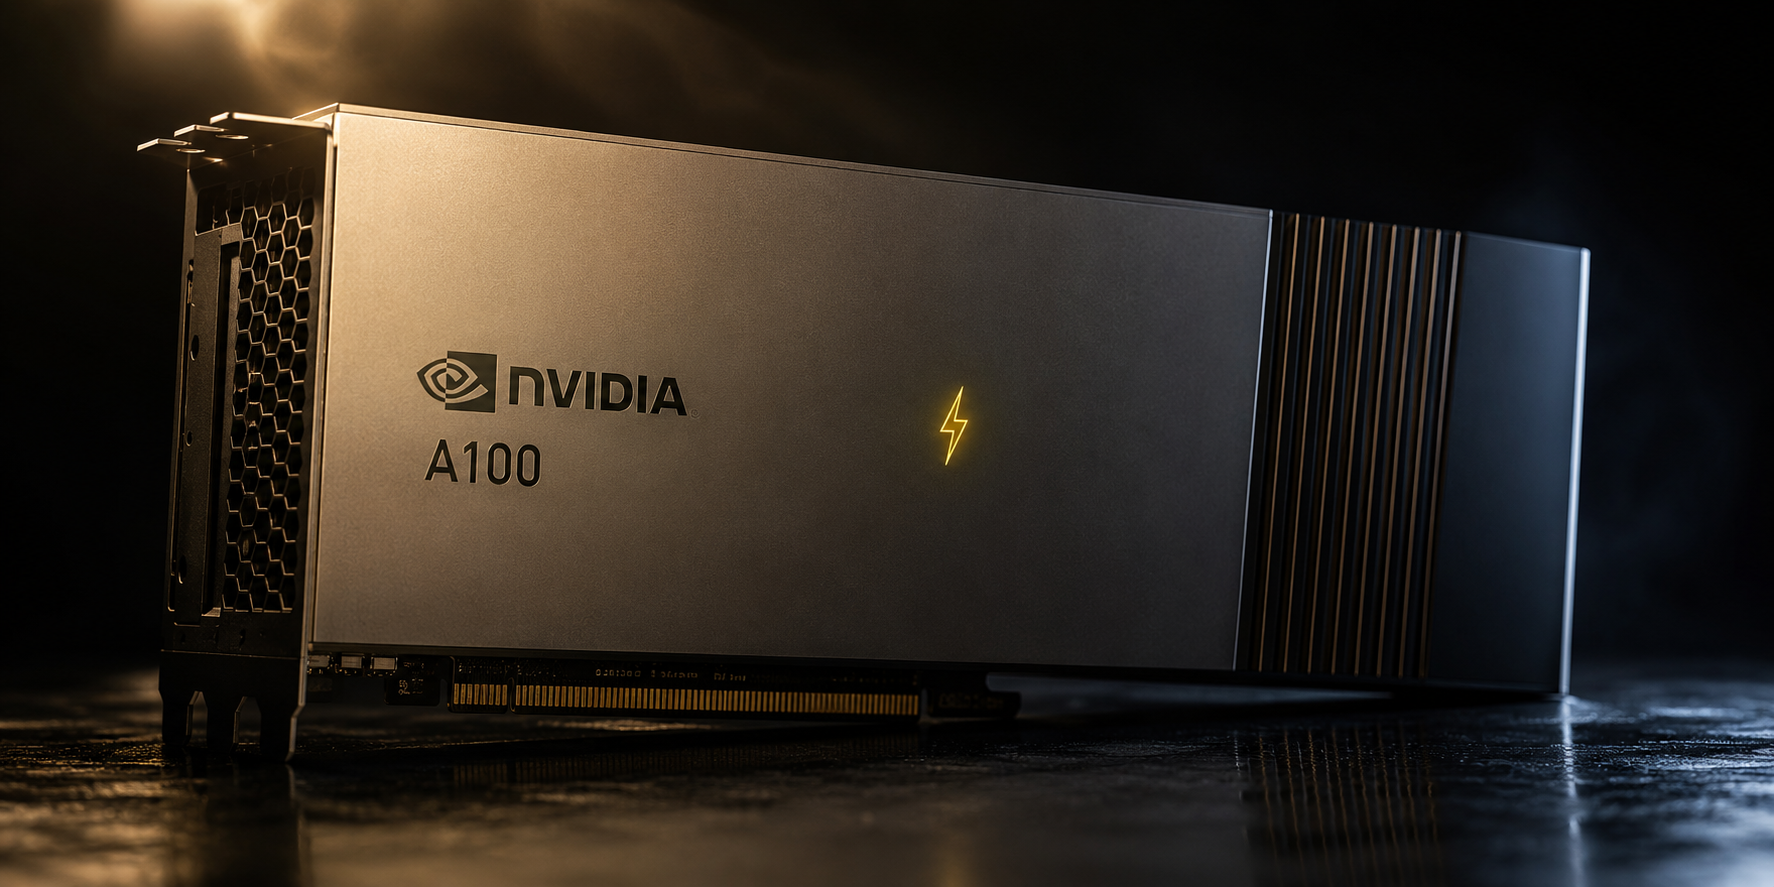
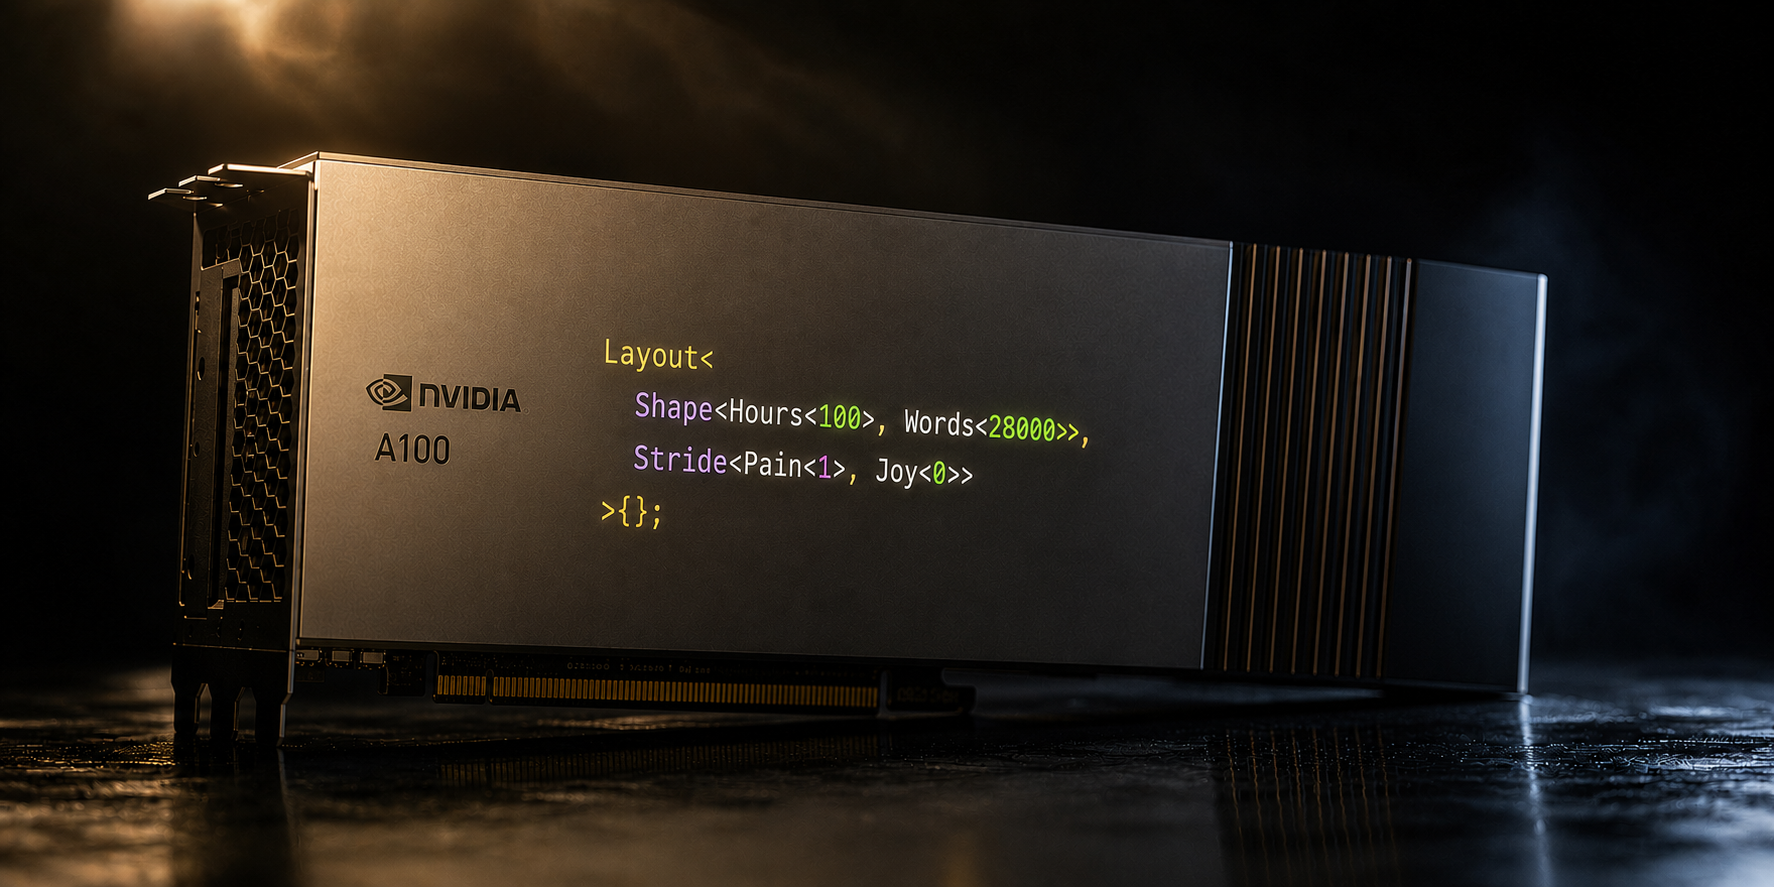
Update thumbnail

diff --git a/content/post/2026-05-18-flashattn-cutlass/index.md b/content/post/2026-05-18-flashattn-cutlass/index.md
@@ -9,7 +9,7 @@ author: Eric Chen
 image: thumbnail.png
 date: 2026-05-18
 
-description: An unreasonably detailed walkthrough of production FA-2. Including the line that turns out to do absolutely nothing.
+description: A line-by-line dredge-through of Tri Dao's production FA2.
 ---
 Two days. That's how long it took me to write FlashAttention-2 in Triton. I had never touched a GPU kernel before and somehow replicated a revolutionary algorithm between sips of coffee. I was looking to learn something new and somehow finished before I really got started. I knew the original source was written in CUDA, made by my Bay Area buddy who turned rocks into trillion-ade. Riding on my hubris from my recent success, I decided to translate my pièce de résistance to the native dialect of the rock-whisperers themselves.
 
@@ -2136,7 +2136,7 @@ That's the entire boilerplate stack. You can call `mha_fwd(q, k, v)` in Python; 
 
 # Wrapping up
 
-> 9-1-1, there's a psycho here. What do you mean reading is not a crime? What kind of lunatic reads a 28,000 word GPU programming blog about some three-year old algorithm? I have to ask him whether he just skimmed it or skipped to the end? Oh, well, fair point.
+> 9-1-1, there's a psycho here. What do you mean reading is not a crime? What kind of lunatic reads a 29,000 word GPU programming blog about some three-year old algorithm? I have to ask him whether he just skimmed it or skipped to the end? Oh, well, fair point.
 
 If you've even dug into a few sections of this post, you've probably realized how unforgiving CuTe is. Reading that it's a "library" is so misleading in the sense that it's just a template engine that hides some additions and divisions behind some friendly words. It's a starter pack without a single instruction or label on it. When you expect it to handle some basic shapes or strides on your behalf, it spits in your face by telling you to specify every single dim and stride by yourself -- and when you inevitably get it wrong, it'll give you a thousand-line stack trace that sends you straight back to the starter room.
 
